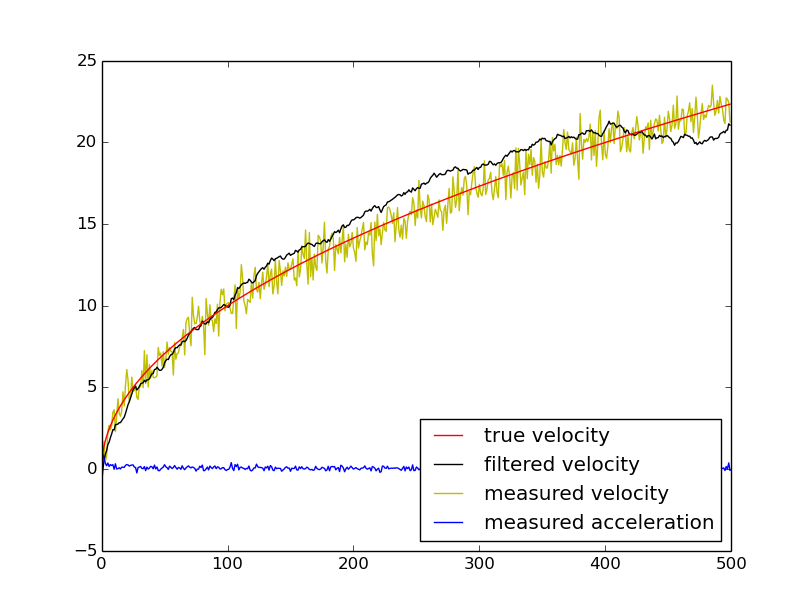
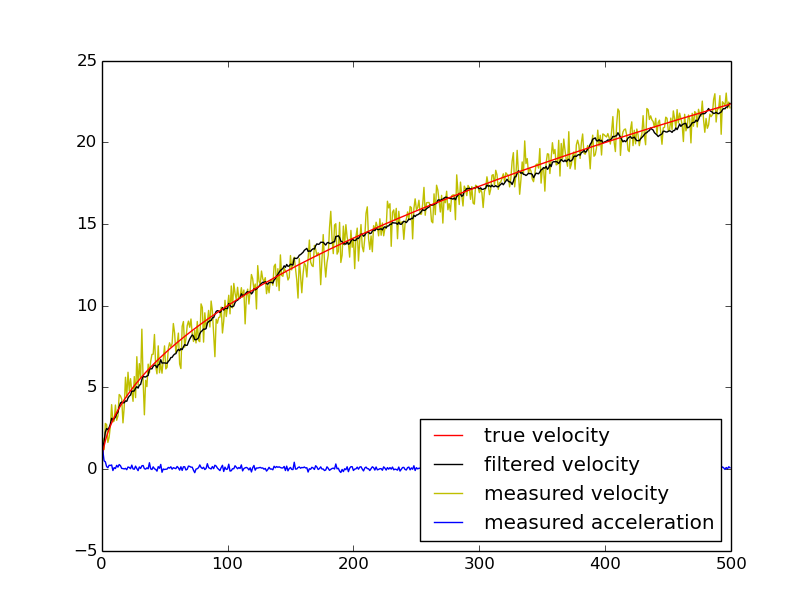
changed Q & R error terms to be non-zero

Changed region(s): [[0.1232, 0.1552, 0.9236, 0.7761]]

diff --git a/kalmantest.py b/kalmantest.py
@@ -115,9 +115,9 @@ noisy_velocity = measuredState
 dimension = 1
 A = np.identity(dimension)
 P = np.identity(dimension)
-R = np.zeros(dimension)
+R = np.array([0.1])
 H = np.identity(dimension)
-Q = np.zeros(dimension)
+Q = np.array([0.00001])
 x_k = np.zeros(dimension) #initial guess
 
 kf = KalmanFilter(A, P, Q, R, H, x_k, dimension)
